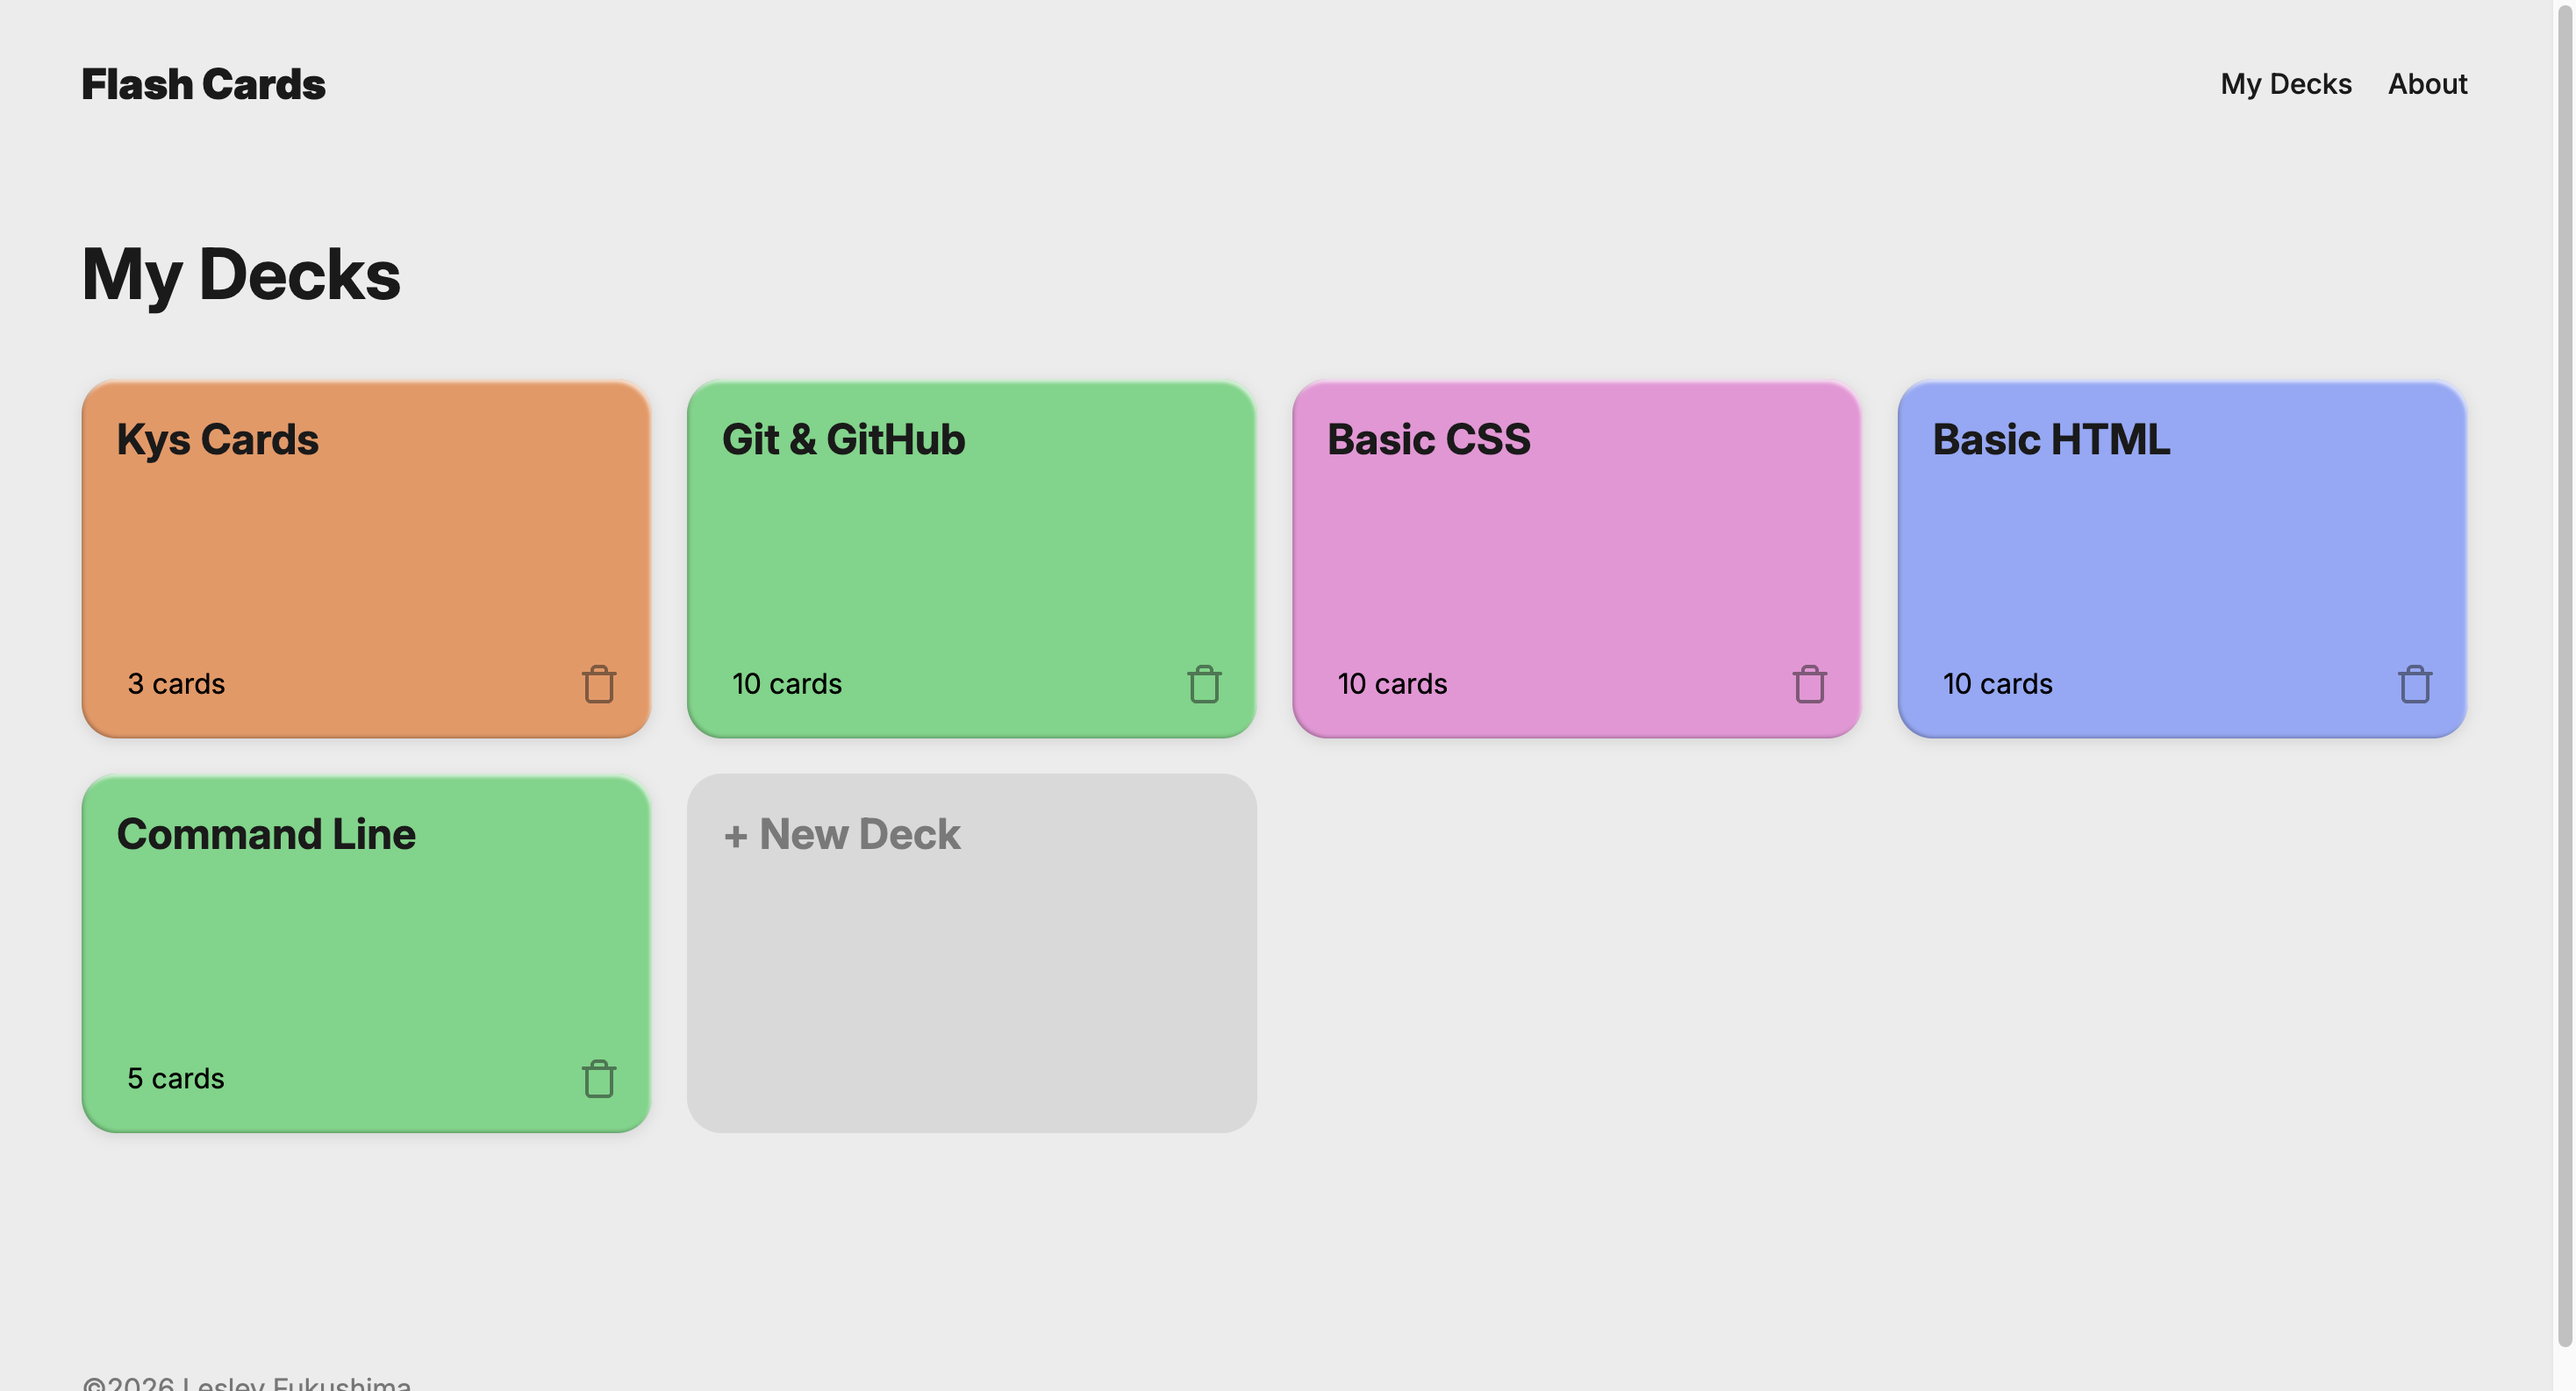
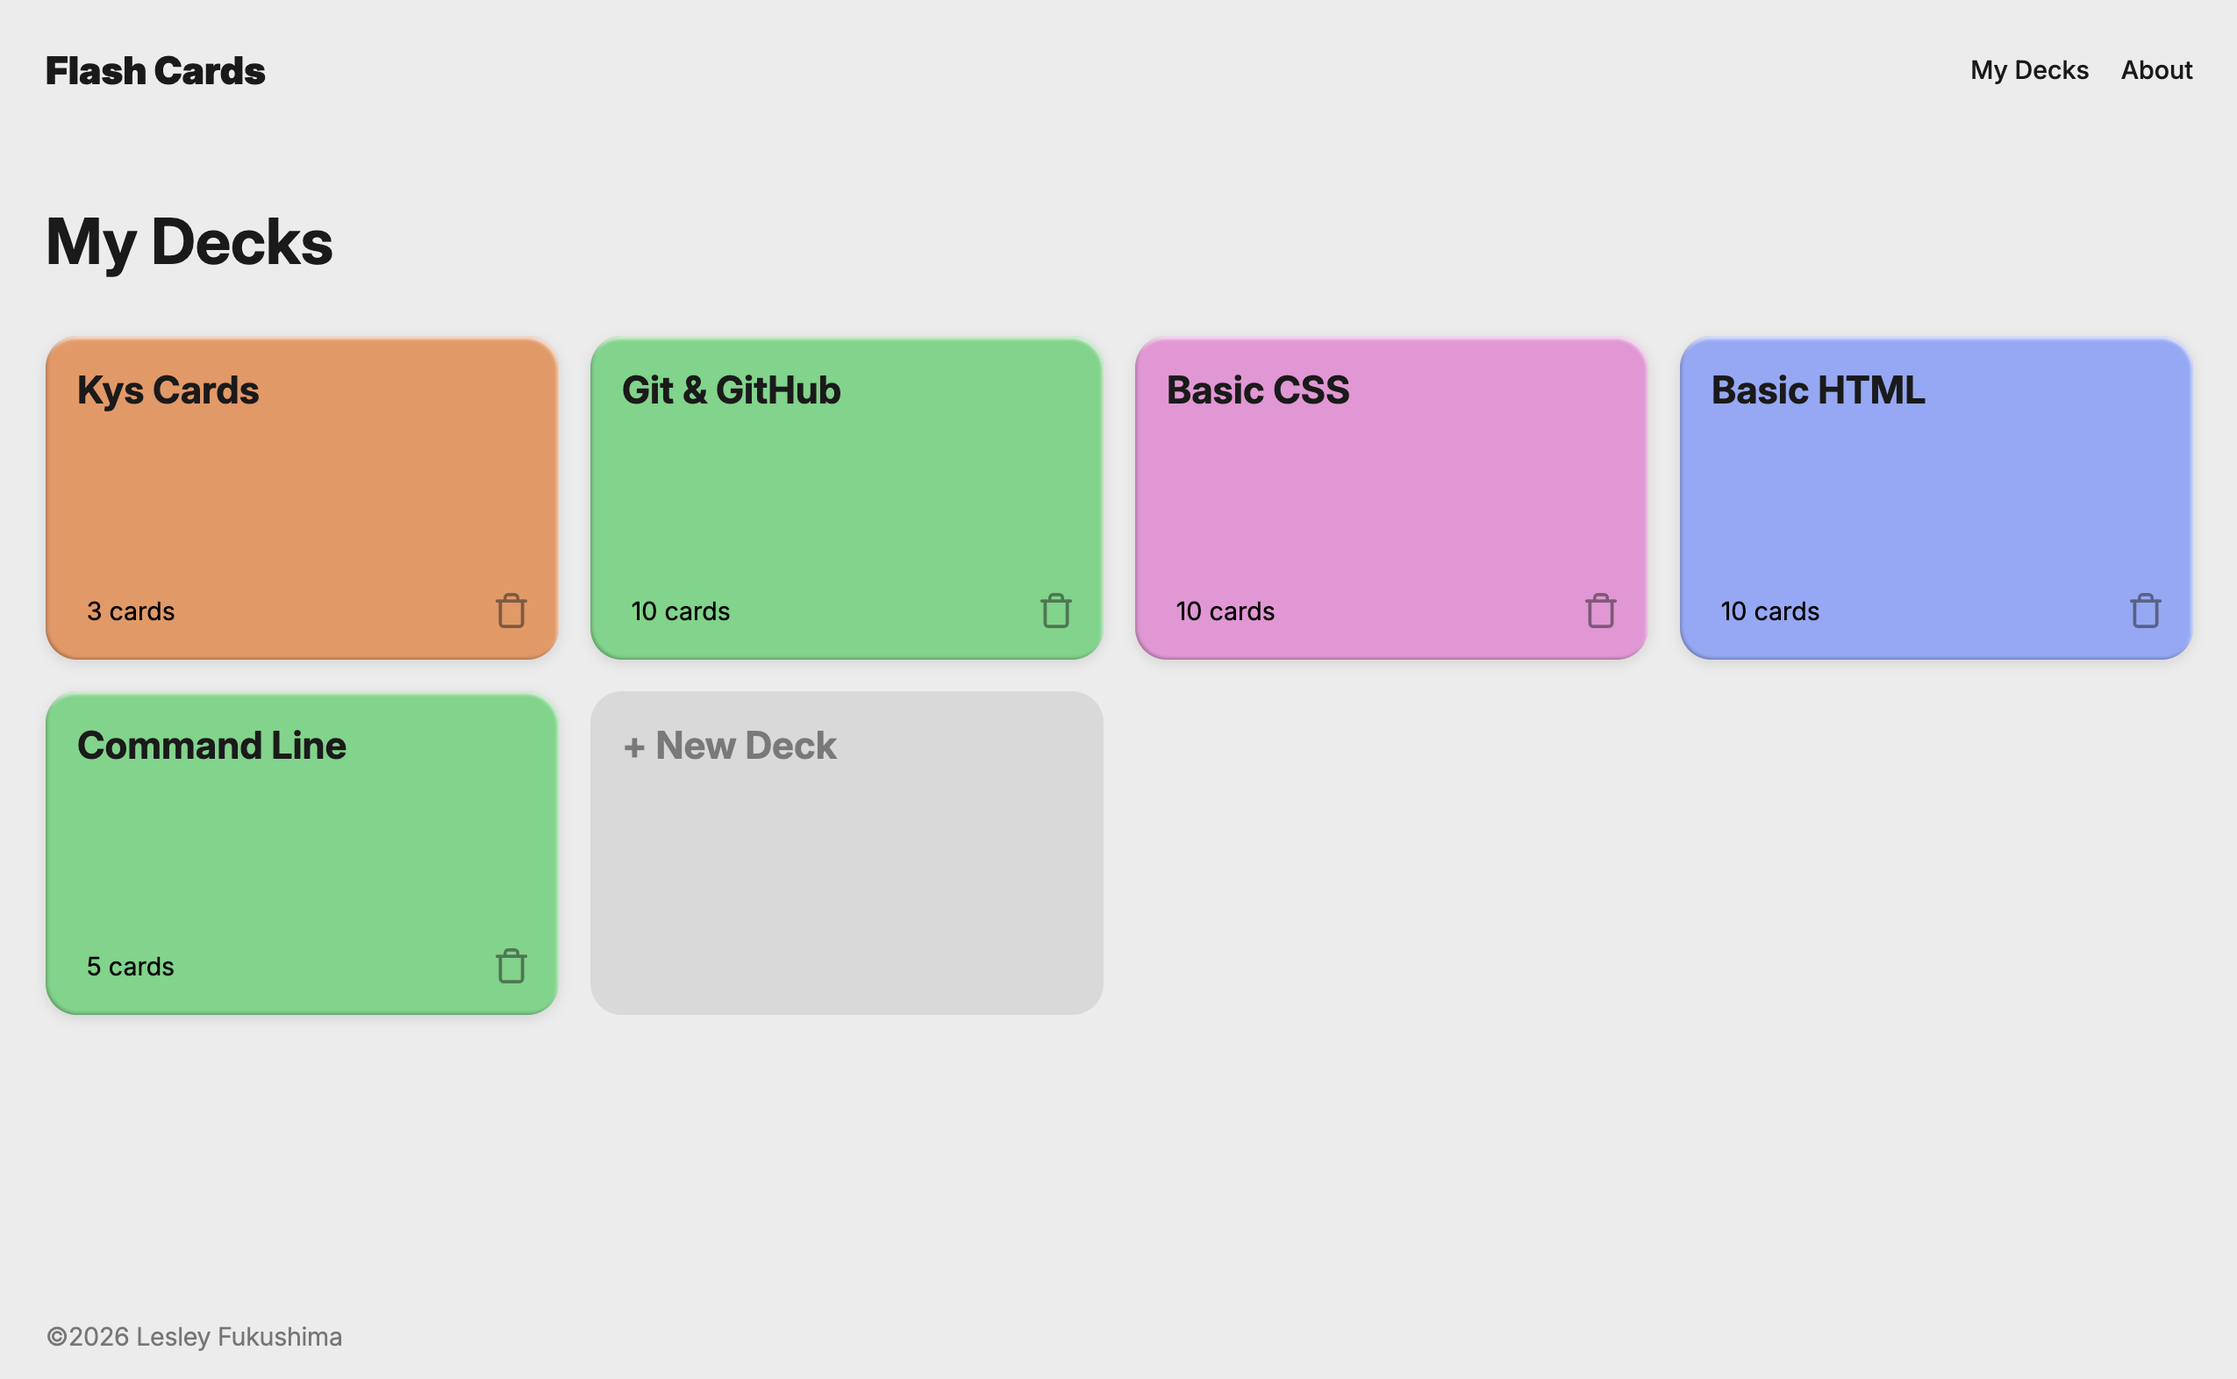
git commit -m "Building the Projects Section"

Changed region(s): [[0.0, 0.0, 1.0, 0.9663], [0.031, 0.9663, 0.1549, 1.0], [0.0, 0.0312, 0.1239, 0.0935]]

diff --git a/src/components/ProjectCard/ProjectCard.css b/src/components/ProjectCard/ProjectCard.css
@@ -1,0 +1,95 @@
+.project-card {
+  display: grid;
+  grid-template-columns: minmax(0, 1.35fr) minmax(280px, 0.65fr);
+  gap: 1.5rem;
+  background: #fff;
+  border: 1px solid rgba(18, 18, 18, 0.08);
+  border-radius: 16px;
+  overflow: hidden;
+  align-items: stretch;
+}
+
+.project-card__image {
+  display: block;
+  width: 100%;
+  height: 100%;
+  object-fit: contain;
+  background: #f7f9fc;
+}
+
+.project-card--mesh-ai .project-card__image {
+  width: 70%;
+  height: 70%;
+  align-self: center;
+  justify-self: center;
+  object-fit: contain;
+}
+
+.project-card--mesh-ai {
+  grid-template-columns: minmax(0, 1fr) minmax(0, 1fr);
+}
+
+.project-card--mesh-ai .project-card__content {
+  min-width: 0;
+  padding: 1.25rem;
+}
+
+.project-card__content {
+  padding: 1.25rem 1.25rem 1.25rem 0;
+}
+
+.project-card__title {
+  margin: 0 0 0.75rem;
+  color: var(--color-text-primary);
+  font-size: 1.1rem;
+}
+
+.project-card__description {
+  margin: 0 0 0.65rem;
+  color: var(--color-text-secondary);
+  font-size: 14px;
+  line-height: 1.6;
+}
+
+.project-card__description:last-of-type {
+  margin-bottom: 0;
+}
+
+.project-card__links {
+  display: flex;
+  align-items: center;
+  justify-content: center;
+  gap: 1rem;
+  margin-top: 1.25rem;
+}
+
+.project-card__link {
+  color: #121212;
+  border: 1px solid #eef4ff;
+  width: 88px;
+  height: 44px;
+  border-radius: 8px;
+  font-family: "Inter", sans-serif;
+  font-weight: 500;
+  font-size: 14px;
+  font-style: medium;
+  text-decoration: none;
+}
+
+.project-card__link--icon {
+  display: inline-flex;
+  align-items: center;
+  justify-content: center;
+  gap: 0.5rem;
+}
+
+.project-card__icon {
+  width: 18px;
+  height: 18px;
+  display: block;
+}
+
+.project-card__link:hover,
+.project-card__link:focus-visible {
+  text-decoration: underline;
+}

diff --git a/src/components/ProjectCard/ProjectCard.tsx b/src/components/ProjectCard/ProjectCard.tsx
@@ -1,0 +1,64 @@
+import type { Project } from "../../types";
+import githubIcon from "../../assets/projects/github.png";
+import liveSiteIcon from "../../assets/projects/Card-Link.png";
+import "./ProjectCard.css";
+
+interface ProjectCardProps {
+  project: Project;
+}
+
+export function ProjectCard({ project }: ProjectCardProps) {
+  return (
+    <li
+      className={`project-card${project.id === "project-mesh-ai" ? " project-card--mesh-ai" : ""}`}
+    >
+      <img
+        className="project-card__image"
+        src={project.image}
+        alt={`Screenshot of ${project.name}`}
+      />
+
+      <div className="project-card__content">
+        <h3 className="project-card__title">{project.name}</h3>
+
+        {project.description.map((paragraph) => (
+          <p
+            key={`${project.id}-${paragraph}`}
+            className="project-card__description"
+          >
+            {paragraph}
+          </p>
+        ))}
+
+        <div className="project-card__links">
+          <a
+            href={project.githubUrl}
+            target="_blank"
+            rel="noreferrer"
+            className="project-card__link project-card__link--icon"
+          >
+            <img
+              src={githubIcon}
+              alt="GitHub icon"
+              className="project-card__icon"
+            />
+            <span>Code</span>
+          </a>
+          <a
+            href={project.liveUrl}
+            target="_blank"
+            rel="noreferrer"
+            className="project-card__link project-card__link--icon"
+          >
+            <img
+              src={liveSiteIcon}
+              alt="Live site icon"
+              className="project-card__icon"
+            />
+            <span>Live</span>
+          </a>
+        </div>
+      </div>
+    </li>
+  );
+}

diff --git a/src/components/Projects/Projects.css b/src/components/Projects/Projects.css
@@ -1,0 +1,73 @@
+.projects {
+  padding: 4rem 2rem;
+}
+
+.projects__header {
+  max-width: 1200px;
+  margin: 0 auto 2rem;
+}
+
+.projects__eyebrow {
+  margin: 0 0 0.5rem;
+  color: var(--color-blue);
+  font-size: 14px;
+  font-weight: 600;
+  letter-spacing: 0.12em;
+  text-transform: uppercase;
+}
+
+.projects__title {
+  margin: 0;
+  color: var(--color-text-primary);
+  font-size: 2.5rem;
+}
+
+.projects__list {
+  list-style: none;
+  padding: 0;
+  margin: 0 auto;
+  max-width: 1200px;
+  display: grid;
+  gap: 2rem;
+}
+
+.projects__item {
+  margin: 0;
+}
+
+.project-card {
+  display: grid;
+  grid-template-columns: minmax(0, 1.35fr) minmax(280px, 0.65fr);
+  gap: 1.5rem;
+  background: #fff;
+  border: 1px solid rgba(18, 18, 18, 0.08);
+  border-radius: 16px;
+  overflow: hidden;
+}
+
+.project-card__image {
+  display: block;
+  width: 100%;
+  height: 100%;
+  object-fit: cover;
+}
+
+.project-card__content {
+  padding: 1.5rem 1.5rem 1.5rem 0;
+}
+
+.project-card__title {
+  margin: 0 0 1rem;
+  color: var(--color-text-primary);
+  font-size: 1.5rem;
+}
+
+.project-card__description {
+  margin: 0 0 0.75rem;
+  color: var(--color-text-secondary);
+  line-height: 1.7;
+}
+
+.project-card__description:last-child {
+  margin-bottom: 0;
+}

diff --git a/src/components/Projects/Projects.tsx b/src/components/Projects/Projects.tsx
@@ -1,0 +1,20 @@
+import { ProjectCard } from "../ProjectCard/ProjectCard";
+import { projects } from "../../data/projects";
+import "./Projects.css";
+
+export function Projects() {
+  return (
+    <section id="projects" className="projects">
+      <div className="projects__header">
+        <p className="projects__eyebrow">Projects</p>
+        <h2 className="projects__title">Featured Work</h2>
+      </div>
+
+      <ul className="projects__list">
+        {projects.map((project) => (
+          <ProjectCard key={project.id} project={project} />
+        ))}
+      </ul>
+    </section>
+  );
+}

diff --git a/src/components/App/App.tsx b/src/components/App/App.tsx
@@ -1,5 +1,6 @@
 import { Header } from "../Header/Header";
 import { Hero } from "../Hero/Hero";
+import { Projects } from "../Projects/Projects";
 import "./App.css";
 
 export default function App() {
@@ -14,9 +15,7 @@ export default function App() {
           <h2>Skills</h2>
         </section>
 
-        <section id="projects" style={{ minHeight: "60vh", padding: "2rem" }}>
-          <h2>Projects</h2>
-        </section>
+        <Projects />
 
         <section id="contact" style={{ minHeight: "60vh", padding: "2rem" }}>
           <h2>Contact</h2>

diff --git a/src/data/projects.ts b/src/data/projects.ts
@@ -28,7 +28,7 @@ export const projects: Project[] = [
     ],
     image: projectMeshAiImage,
     githubUrl: "https://github.com/LF808mlb/ai-se_project_mesh-ai.git",
-    liveUrl: "https://github.com/LF808mlb/ai-se_project_mesh-ai",
+    liveUrl: "https://mytodoappLF808.100mountain.com",
   },
   {
     id: "workspace-hub",
